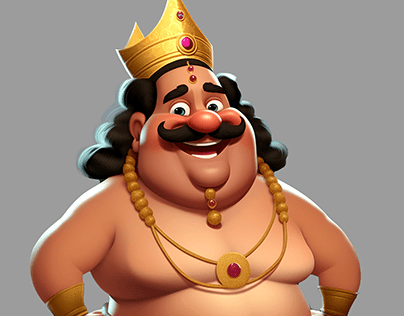
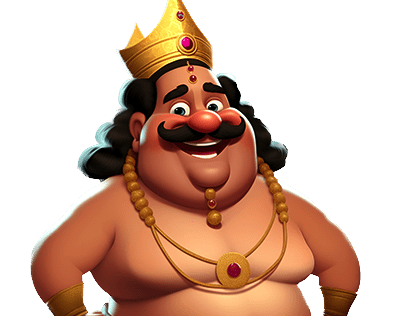
updated hero design

diff --git a/src/sections/Countdown.jsx b/src/sections/Countdown.jsx
@@ -1,0 +1,87 @@
+import { createSignal, onMount } from "solid-js";
+
+function Countdown(props) {
+	let ref;
+	const [day , setDay] = createSignal(0),
+		[hour , setHour] = createSignal(0),
+        [minute , setMinute] = createSignal(0),
+		[seconds , setSeconds] = createSignal(0);
+	onMount(() => {
+		startCountdown(17, 9, 2024, ({ days, hours, minutes ,seconds }) => {
+            setDay(days)
+            setHour(hours)
+            setMinute(minutes)
+            setSeconds(seconds)
+        });
+	});
+	function startCountdown(day, month, year, tick = () => {}) {
+		const timerDisplay = document.getElementById("timer");
+
+		const targetDay = parseInt(day);
+		const targetMonth = parseInt(month) - 1; // JavaScript months are 0-based (0 = January)
+		const targetYear = parseInt(year);
+
+		const targetDate = new Date(targetYear, targetMonth, targetDay).getTime();
+
+		// Update the countdown every second
+		const countdownInterval = setInterval(function () {
+			const currentDate = new Date().getTime();
+			const timeLeft = targetDate - currentDate;
+
+			if (timeLeft <= 0) {
+				clearInterval(countdownInterval);
+				timerDisplay.innerHTML = "Countdown expired!";
+			} else {
+				const days = Math.floor(timeLeft / (1000 * 60 * 60 * 24));
+				const hours = Math.floor(
+					(timeLeft % (1000 * 60 * 60 * 24)) / (1000 * 60 * 60)
+				);
+				const minutes = Math.floor((timeLeft % (1000 * 60 * 60)) / (1000 * 60));
+				const seconds = Math.floor((timeLeft % (1000 * 60)) / 1000);
+				tick({ days, hours, minutes, seconds });
+			}
+		}, 1000);
+	}
+	return (
+		<div class=" flex flex-col space-x-2 h-fit w-fit justify-center text-bold text-white">
+			<p class="text-[3rem] w-full text-center p-10 font-bold text-amber-500">
+				Waiting for Onam 2024
+			</p>
+			<div class="flex flex-col  md:flex-row  ">
+				<div class="flex flex-col m-3  min-w-[200px]  justify-center items-center border-4 rounded-md p-5">
+					<p class="text-[1.9rem] md:text-[2rem] text-center text-gray-500">
+						Days
+					</p>
+					<p class="text-[1.9rem] md:text-[4rem] text-center h-fit">{day()}</p>
+				</div>
+
+				<div class="flex flex-col m-3 min-w-[200px] border-4 rounded-md p-5">
+					<p class="text-[1.9rem] md:text-[2rem] text-center text-gray-500">
+						Hours
+					</p>
+					<p class="text-[1.9rem] md:text-[4rem] h-fit text-center">{hour()}</p>
+				</div>
+
+				<div class="flex flex-col m-3 min-w-[200px] border-4 rounded-md p-5">
+					<p class="text-[1.9rem] md:text-[2rem] text-center text-gray-500">
+						Minutes
+					</p>
+					<p class="text-[1.9rem] md:text-[4rem] h-fit text-center">
+						{minute()}
+					</p>
+				</div>
+
+				<div class="flex flex-col m-3 min-w-[100px] border-4 rounded-md p-5">
+					<p class="text-[1.9rem] md:text-[2rem] text-center text-gray-500">
+						Seconds
+					</p>
+					<p class="text-[1.9rem] md:text-[4rem] h-fit text-center">
+						{seconds()}
+					</p>
+				</div>
+			</div>
+		</div>
+	);
+}
+
+export default Countdown;

diff --git a/src/sections/Hero.jsx b/src/sections/Hero.jsx
@@ -1,6 +1,7 @@
 import { onMount } from "solid-js";
 import ScrollIndicator from "../components/ScrollIndicator/ScrollIndicator";
 import grass from "../assets/grass.png";
+import onamaal from '../assets/maveli3.png'
 import { parallaxer } from "../utils/parallaxer";
 
 function Hero({ root }) {
@@ -33,16 +34,26 @@ function Hero({ root }) {
 				data-speed="1"
 				class="parallax absolute pointer-events-none top-0 left-0 w-screen h-screen text-white"
 			></div>
-
-			<div class="flex flex-col  items-center h-fit w-full p-20">
-				<p class=" w-fit  translate-y-10   text-start  py-10 font-semibold text-[1.6rem] md:text-[3rem]  text-violet-300 ">
-					മലയാളികളുടെ സ്വന്തം
-				</p>
-				<p class=" w-fit  py-0 font-black text-[5rem] md:text-[10rem]  text-amber-500 ">
-					MAAVELI
-				</p>
+			<img
+				id="grass"
+				data-speed="1.1"
+				alt="grass"
+				src={onamaal}
+				class="parallax  absolute -right-[10%] bottom-0 object-contain h-[70%]   brightness-[0.7]"
+			/>
+			<div class="flex flex-col items-center justify-center md:justify-normal  md:items-start  h-full w-full p-20">
+				<div class="flex flex-col w-fit">
+					<p class=" w-fit  translate-y-[60%]  text-center md:text-start  py-10 font-semibold text-[1.6rem] md:text-[3rem]  text-violet-300 ">
+						മലയാളികളുടെ സ്വന്തം
+					</p>
+					<p class=" w-fit  py-0 z-[1] font-black text-[5rem] md:text-[10rem]  text-amber-500 ">
+						MAAVELI
+					</p>
+				</div>
 				<button
-					onClick={() => root.scrollTo({y:window.innerHeight , behaviour:"smooth"})}
+					onClick={() =>
+						root.scrollTo({ y: window.innerHeight, behaviour: "smooth" })
+					}
 					class=" z-10 mt-10  border-2 border-green-400 text-white hover:bg-green-400 hover:scale-110 transition-transform hover:text-black w-fit h-fit px-20 py-2 text-[1.4rem] rounded-2xl"
 				>
 					Explore
@@ -57,7 +68,7 @@ function Hero({ root }) {
 				data-speed="1.1"
 				alt="grass"
 				src={grass}
-				class="parallax absolute object-cover h-[100%]  w-[200%] brightness-[0.2]"
+				class="parallax absolute object-cover h-[100%]   w-[200%] brightness-[0.2]"
 			/>
 		</div>
 	);

diff --git a/src/sections/AdaarSadhya.jsx b/src/sections/AdaarSadhya.jsx
@@ -6,18 +6,27 @@ function AdaarSadhya({root }) {
     let ref
     onMount(()=>{
         parallaxer(root, ref, ({ layer, yPos }) => {
-					layer.style.transform = `translateX(${yPos}px)`;
-					if (layer.id == "sadhya") {
-						// layer.style.transform = `translateY(${yPos}px)`;
-						// layer.style.transform = `translateX(${yPos}px)`;
+					
+					if (layer.id == "meme") {
+						layer.style.opacity = `${100/Math.abs(yPos)}`;
+					
+					}else {
+						layer.style.transform = `translateX(${yPos}px)`;
 					}
 				});
     })
 	return (
 		<div
 			ref={ref}
-			class="relative overflow-hidden h-screen snap-start w-full bg-[#0a1206] p-10   flex flex-col justify-start items-start"
+			class="relative overflow-hidden h-screen snap-start w-full bg-[#0a1206] p-20   flex flex-col justify-start items-start"
 		>
+			<img
+				id="sadhya"
+				data-speed="2.6"
+				alt="grass"
+				src={sadhya2}
+				class="parallax -right-[10%] h-[90%] brightness-90 absolute  "
+			/>
 			<h3
 				data-speed="1.2"
 				class="parallax sticky top-[10vh] text-center justify-center  text-[#696338] font-black md:text-[9rem] text-[3rem]"
@@ -30,14 +39,21 @@ function AdaarSadhya({root }) {
 			>
 				Onasadhya
 			</h3>
-
-			<img
-				id="sadhya"
-				data-speed="2.6"
-				alt="grass"
-				src={sadhya2}
-				class="parallax -right-[10%] h-[90%] brightness-90 absolute  "
-			/>
+			<p
+			id="meme"
+				data-speed="1.2"
+				class="parallax w-fit h-fit  translate-y-[-50px]   text-start  py-10 font-semibold text-[1.6rem] md:text-[3rem]  text-violet-300 opacity-50 "
+			>
+				ഓണത്തിന്റെയിടയിൽ പുട്ടുകച്ചവടം
+			</p>
+			<button
+				onClick={() =>
+					root.scrollTo({ y: window.innerHeight, behaviour: "smooth" })
+				}
+				class=" z-10 mt-10  border-2 border-green-400 text-white hover:bg-green-400 hover:scale-110 transition-transform hover:text-black w-fit h-fit px-20 py-2 text-[1.4rem] rounded-2xl"
+			>
+				Order Now
+			</button>
 		</div>
 	);
 }

diff --git a/src/App.jsx b/src/App.jsx
@@ -4,6 +4,7 @@ import Sadhya from "./sections/Sadhya";
 import Lake from "./sections/Lake";
 import AdaarSadhya from "./sections/AdaarSadhya";
 import Hero from "./sections/Hero";
+import Countdown from "./sections/Countdown";
 
 function App() {
 	let root;
@@ -21,7 +22,9 @@ function App() {
 			<div
 				id="section"
 				class="snap-start h-full w-full bg-[#071607] p-10  flex flex-col justify-center items-center"
-			></div>
+			>
+				<Countdown></Countdown>
+			</div>
 			<div
 				id="section2"
 				class="h-full w-full bg-[#ffffff] p-10  flex flex-col justify-center items-center"
